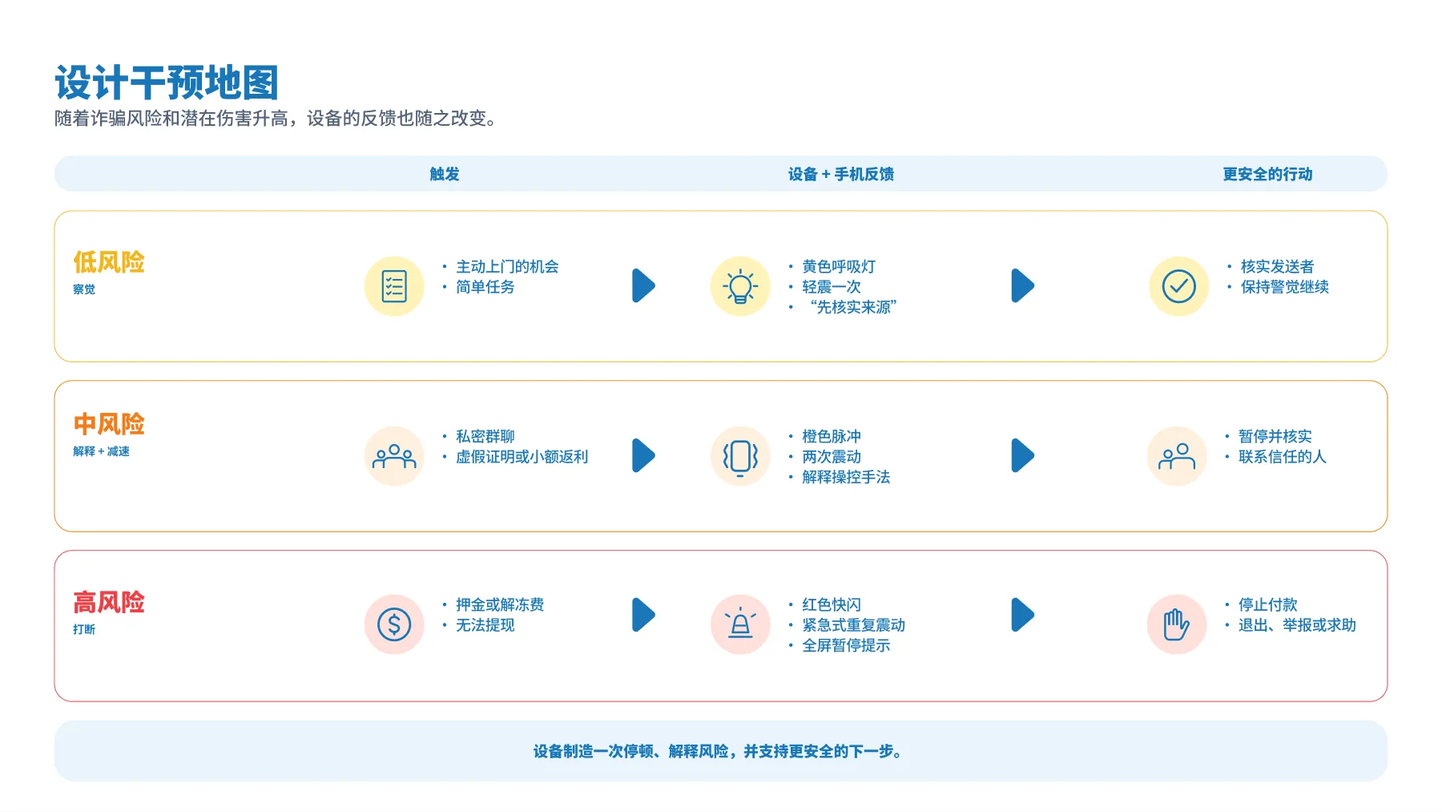
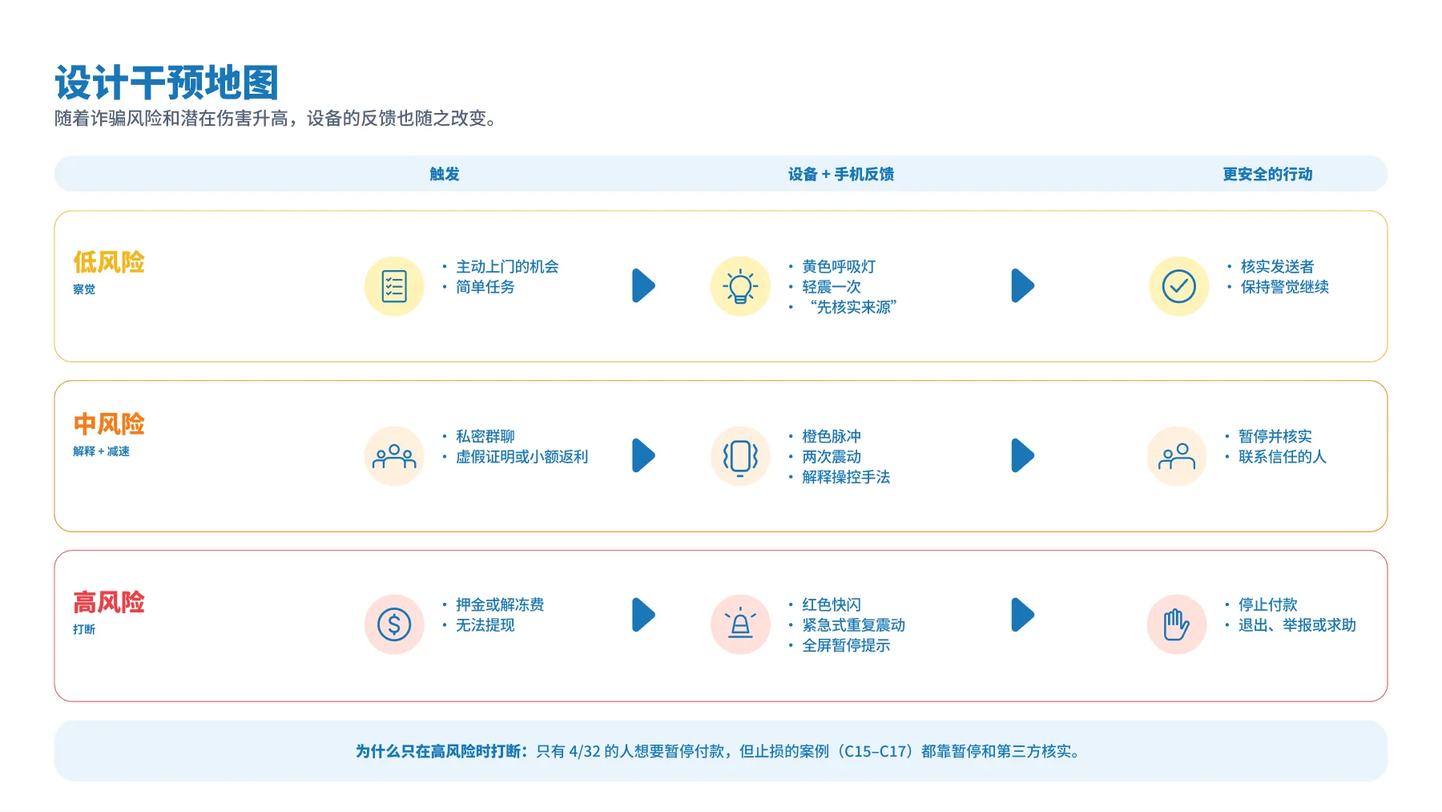
WiseHalo: Intervention Map states why only high risk interrupts (fig 10)

Changed region(s): [[0.2489, 0.9181, 0.7467, 0.9487]]

diff --git a/works/wisehalo.html b/works/wisehalo.html
@@ -33,7 +33,7 @@ try{if(!sessionStorage.getItem('wz-loaded')&&!matchMedia('(prefers-reduced-motio
 <main class="project">
   <section class="meta"><div class="m-row"><span><span class="l-zh" lang="zh-Hans-CN">项目类型</span><span class="l-en" lang="en">Project type</span></span><span class="span2"><span class="l-zh" lang="zh-Hans-CN">AI + IOT 硕士毕业设计项目</span><span class="l-en" lang="en">AI + IoT MA thesis project</span></span></div><div class="m-row"><span><span class="l-zh" lang="zh-Hans-CN">项目名称</span><span class="l-en" lang="en">Project name</span></span><span class="span2"><span class="l-zh" lang="zh-Hans-CN">WiseHalo｜AI 防诈骗风险提示系统</span><span class="l-en" lang="en">WiseHalo — Making Hidden Scam Systems Visible</span></span></div><div class="m-row"><span><span class="l-zh" lang="zh-Hans-CN">分类</span><span class="l-en" lang="en">Category</span></span><span class="span2"><span class="tag">[<span class="l-zh" lang="zh-Hans-CN">AI</span><span class="l-en" lang="en">AI</span>]</span><span class="tag">[<span class="l-zh" lang="zh-Hans-CN">交互设计</span><span class="l-en" lang="en">Interaction design</span>]</span><span class="tag">[<span class="l-zh" lang="zh-Hans-CN">IOT</span><span class="l-en" lang="en">IoT</span>]</span><span class="tag">[<span class="l-zh" lang="zh-Hans-CN">适老化</span><span class="l-en" lang="en">Age-inclusive</span>]</span></span></div><div class="m-row"><span><span class="l-zh" lang="zh-Hans-CN">时间</span><span class="l-en" lang="en">Date</span></span><span class="span2">11.2026</span></div></section>
   <div class="p-grid">
-    <div class="p-main"><figure class="fig"><img src="../images/wisehalo/00-hero.webp?v=1794632484" width="1800" height="1012" alt=""></figure><div class="sec-head"><span>01</span><span><span class="l-zh" lang="zh-Hans-CN">问题：诈骗是一个系统</span><span class="l-en" lang="en">Problem: scams are systems</span></span><span class="sec-text"><span class="l-zh" lang="zh-Hans-CN">公开案例显示，诈骗从社交平台和日常任务开始接触用户，用虚假身份建立信任，再用紧迫感和小额回报推动用户做出高风险操作。大多数人只看到表面信息，看不到背后的运作方式，也就很难在中途停下来。</span><span class="l-en" lang="en">Public cases show scams reach people through everyday channels, build trust with fake identities, then use urgency and small rewards to push risky actions. Most people only see the surface message, not the system behind it — so it is hard to stop midway.</span></span></div><div class="figs figs-stack"><figure class="fig zoom"><img class="l-zh" src="../images/wisehalo/01-zh.webp?v=1794736027" width="1800" height="1013" alt="" loading="lazy" decoding="async"><img class="l-en" src="../images/wisehalo/01.webp?v=1794632484" width="1800" height="1012" alt="" loading="lazy" decoding="async"></figure><figure class="fig zoom"><img class="l-zh" src="../images/wisehalo/02-zh.webp?v=1794736027" width="1800" height="1013" alt="" loading="lazy" decoding="async"><img class="l-en" src="../images/wisehalo/02.webp?v=1794632484" width="1800" height="1012" alt="" loading="lazy" decoding="async"></figure></div><div class="sec-head"><span>02</span><span><span class="l-zh" lang="zh-Hans-CN">研究：20 个公开案例 + 32 份问卷</span><span class="l-en" lang="en">Research: 20 public cases + 32 surveys</span></span><span class="sec-text"><span class="l-zh" lang="zh-Hans-CN">我分析了 20 个中国 50–65 岁受害者的公开案例，并对 32 人做了线上问卷（其中 50 岁以上 15 人）。大多数人在可疑互动中会提前退出，但最需要的不是更多警告，而是“为什么可疑”的具体解释、可以马上执行的下一步，以及对保护工具本身的信任。</span><span class="l-en" lang="en">I analysed 20 public cases of victims aged 50–65 in China and ran an online survey with 32 people (15 aged 50+). Most respondents already exit suspicious interactions early — what they need is not more warnings, but a specific explanation of why something is suspicious, an actionable next step, and trust in the protective tool itself.</span></span></div><div class="figs figs-stack"><figure class="fig zoom"><img class="l-zh" src="../images/wisehalo/03-zh.webp?v=1794736027" width="1800" height="1013" alt="" loading="lazy" decoding="async"><img class="l-en" src="../images/wisehalo/03.webp?v=1794632484" width="1800" height="1012" alt="" loading="lazy" decoding="async"></figure><figure class="fig zoom"><img class="l-zh" src="../images/wisehalo/04-zh.webp?v=1794736027" width="1800" height="1013" alt="" loading="lazy" decoding="async"><img class="l-en" src="../images/wisehalo/04.webp?v=1794632484" width="1800" height="1012" alt="" loading="lazy" decoding="async"></figure><figure class="fig zoom"><img class="l-zh" src="../images/wisehalo/05-zh.webp?v=1794736027" width="1800" height="1013" alt="" loading="lazy" decoding="async"><img class="l-en" src="../images/wisehalo/05.webp?v=1794632485" width="1800" height="1012" alt="" loading="lazy" decoding="async"></figure><figure class="fig zoom"><img class="l-zh" src="../images/wisehalo/06-zh.webp?v=1794736027" width="1800" height="1013" alt="" loading="lazy" decoding="async"><img class="l-en" src="../images/wisehalo/06.webp?v=1794632485" width="1800" height="1012" alt="" loading="lazy" decoding="async"></figure><figure class="fig zoom"><img class="l-zh" src="../images/wisehalo/39-zh.webp?v=1794736027" width="1800" height="1013" alt="" loading="lazy" decoding="async"><img class="l-en" src="../images/wisehalo/39.webp?v=1794732906" width="1800" height="1013" alt="" loading="lazy" decoding="async"></figure><figure class="fig zoom"><img class="l-zh" src="../images/wisehalo/07-zh.webp?v=1794736027" width="1800" height="1013" alt="" loading="lazy" decoding="async"><img class="l-en" src="../images/wisehalo/07.webp?v=1794632485" width="1800" height="1012" alt="" loading="lazy" decoding="async"></figure><figure class="fig zoom"><img class="l-zh" src="../images/wisehalo/40-zh.webp?v=1794736027" width="1800" height="1013" alt="" loading="lazy" decoding="async"><img class="l-en" src="../images/wisehalo/40.webp?v=1794732906" width="1800" height="1013" alt="" loading="lazy" decoding="async"></figure><figure class="fig zoom"><img class="l-zh" src="../images/wisehalo/38-zh.webp?v=1794736027" width="1800" height="1013" alt="User persona: Mei, 58" loading="lazy" decoding="async"><img class="l-en" src="../images/wisehalo/38.webp?v=1794732387" width="1800" height="1013" alt="User persona: Mei, 58" loading="lazy" decoding="async"></figure><figure class="fig zoom"><img class="l-zh" src="../images/wisehalo/08-zh.webp?v=1794736027" width="1800" height="1013" alt="" loading="lazy" decoding="async"><img class="l-en" src="../images/wisehalo/08.webp?v=1794732387" width="1800" height="1013" alt="" loading="lazy" decoding="async"></figure></div><div class="sec-head"><span>03</span><span><span class="l-zh" lang="zh-Hans-CN">策略：风险越高，反馈越强</span><span class="l-en" lang="en">Strategy: stronger risk, stronger response</span></span><span class="sec-text"><span class="l-zh" lang="zh-Hans-CN">设备的反馈随风险逐级升级：低风险用黄色呼吸灯提示“核实来源”；中风险用橙色双脉冲并解释诈骗手法、建议联系信任的人；高风险用红色快闪和重复震动，配合手机全屏提示暂停付款。始终由用户自己决定下一步。</span><span class="l-en" lang="en">Feedback escalates with risk: low risk shows a yellow breathing light and suggests checking the source; medium risk adds an orange double pulse, explains the tactic and suggests contacting someone trusted; high risk uses a fast red flash and repeated vibration with a full-screen prompt to pause the payment. The user always makes the final call.</span></span></div><div class="figs figs-stack"><figure class="fig zoom"><img class="l-zh" src="../images/wisehalo/09-zh.webp?v=1794736027" width="1800" height="1013" alt="" loading="lazy" decoding="async"><img class="l-en" src="../images/wisehalo/09.webp?v=1794732387" width="1800" height="1013" alt="" loading="lazy" decoding="async"></figure><figure class="fig zoom"><img class="l-zh" src="../images/wisehalo/10-zh.webp?v=1794736027" width="1800" height="1013" alt="" loading="lazy" decoding="async"><img class="l-en" src="../images/wisehalo/10.webp?v=1794732906" width="1800" height="1013" alt="" loading="lazy" decoding="async"></figure><figure class="fig zoom"><img class="l-zh" src="../images/wisehalo/11-zh.webp?v=1794736027" width="1800" height="1013" alt="" loading="lazy" decoding="async"><img class="l-en" src="../images/wisehalo/11.webp?v=1794632486" width="1800" height="1012" alt="" loading="lazy" decoding="async"></figure></div><div class="sec-head"><span>04</span><span><span class="l-zh" lang="zh-Hans-CN">系统与信息架构</span><span class="l-en" lang="en">System &amp; information architecture</span></span><span class="sec-text"><span class="l-zh" lang="zh-Hans-CN">手机端负责接收可疑内容、调用 AI 分析并解释风险；设备端把风险等级转化为灯光与震动。信息架构围绕“检查 → 理解 → 选择安全行动”三步组织。</span><span class="l-en" lang="en">The phone receives suspicious content, calls the AI analysis and explains the risk; the device translates the risk level into light and vibration. The information architecture follows three steps: check → understand → choose a safe action.</span></span></div><div class="figs figs-stack"><figure class="fig zoom"><img class="l-zh" src="../images/wisehalo/14-zh.webp?v=1794736027" width="1800" height="1013" alt="" loading="lazy" decoding="async"><img class="l-en" src="../images/wisehalo/14.webp?v=1794732387" width="1800" height="1013" alt="" loading="lazy" decoding="async"></figure><figure class="fig zoom"><img class="l-zh" src="../images/wisehalo/15-zh.webp?v=1794784326" width="1800" height="1013" alt="" loading="lazy" decoding="async"><img class="l-en" src="../images/wisehalo/15.webp?v=1794784326" width="1800" height="1013" alt="" loading="lazy" decoding="async"></figure><figure class="fig zoom"><img class="l-zh" src="../images/wisehalo/16-zh.webp?v=1794784326" width="1800" height="1013" alt="" loading="lazy" decoding="async"><img class="l-en" src="../images/wisehalo/16.webp?v=1794784326" width="1800" height="1013" alt="" loading="lazy" decoding="async"></figure></div><div class="sec-head"><span>05</span><span><span class="l-zh" lang="zh-Hans-CN">界面：从中保真到高保真</span><span class="l-en" lang="en">Interface: from mid-fi to hi-fi</span></span><span class="sec-text"><span class="l-zh" lang="zh-Hans-CN">高保真把首页做成一个由 App 图标生成的“光环开关”：打开是提醒器守护中，关掉是只用手机提醒。主题色取自图标的藏青与蓝青，鲜艳的颜色只留给光环和风险等级；结果页按“风险等级 → 一句话指令 → 一个主按钮 → 为什么可疑 → 求助”排列，并提供深色模式。下方按设计推进的顺序排列：低保真 → 中保真 → App 图标 → 设计规范（色彩、风险等级、字号与图标、组件、光环开关与结果页）→ 全部高保真界面与深色模式 → 引导页 → v2 新增功能（手机与提醒器分工、闸门熄灯、通话快速自查、链接与电话检查、屏幕共享警告等）。</span><span class="l-en" lang="en">The hi-fi turns Home into a “halo switch” drawn from the app icon: on means the reminder is guarding, off means phone-only alerts. Colours come from the icon’s navy and blue-cyan, with bright colour reserved for the halo and risk levels. Results follow risk level → one instruction → one primary action → why it’s suspicious → get help, with a dark mode. Below, in the order the design developed: low-fi → mid-fi → app icon → design system (colour, risk levels, type &amp; icons, components, halo switch &amp; result order) → every hi-fi screen plus dark mode → onboarding → v2 additions (phone vs reminder roles, the release gate, call self-check, link &amp; number checks, screen-sharing warnings and more).</span></span></div><div class="figs figs-stack"><figure class="fig zoom"><img class="l-zh" src="../images/wisehalo/17-zh.webp?v=1794736027" width="1800" height="1013" alt="" loading="lazy" decoding="async"><img class="l-en" src="../images/wisehalo/17.webp?v=1794634616" width="1800" height="1012" alt="" loading="lazy" decoding="async"></figure><figure class="fig zoom"><img class="l-zh" src="../images/wisehalo/18-zh.webp?v=1794736027" width="1800" height="1013" alt="" loading="lazy" decoding="async"><img class="l-en" src="../images/wisehalo/18.webp?v=1794634616" width="1800" height="1012" alt="" loading="lazy" decoding="async"></figure><figure class="fig zoom"><img class="l-zh" src="../images/wisehalo/19-zh.webp?v=1794736027" width="1800" height="1013" alt="" loading="lazy" decoding="async"><img class="l-en" src="../images/wisehalo/19.webp?v=1794634617" width="1800" height="1012" alt="" loading="lazy" decoding="async"></figure><figure class="fig zoom"><img class="l-zh" src="../images/wisehalo/20.webp?v=1794819768" width="1800" height="1013" alt="" loading="lazy" decoding="async"><img class="l-en" src="../images/wisehalo/21.webp?v=1794819768" width="1800" height="1013" alt="" loading="lazy" decoding="async"></figure><figure class="fig zoom"><img class="l-zh" src="../images/wisehalo/22.webp?v=1794819768" width="1800" height="1013" alt="" loading="lazy" decoding="async"><img class="l-en" src="../images/wisehalo/23.webp?v=1794819768" width="1800" height="1013" alt="" loading="lazy" decoding="async"></figure><figure class="fig zoom"><img class="l-zh" src="../images/wisehalo/24.webp?v=1794819768" width="1800" height="1013" alt="" loading="lazy" decoding="async"><img class="l-en" src="../images/wisehalo/25.webp?v=1794819768" width="1800" height="1013" alt="" loading="lazy" decoding="async"></figure><figure class="fig zoom"><img class="l-zh" src="../images/wisehalo/26.webp?v=1794819768" width="1800" height="1013" alt="" loading="lazy" decoding="async"><img class="l-en" src="../images/wisehalo/27.webp?v=1794819768" width="1800" height="1013" alt="" loading="lazy" decoding="async"></figure><figure class="fig zoom"><img class="l-zh" src="../images/wisehalo/28.webp?v=1794819768" width="1800" height="1013" alt="" loading="lazy" decoding="async"><img class="l-en" src="../images/wisehalo/29.webp?v=1794819768" width="1800" height="1013" alt="" loading="lazy" decoding="async"></figure><figure class="fig zoom"><img class="l-zh" src="../images/wisehalo/30.webp?v=1794820316" width="1800" height="5211" alt="" loading="lazy" decoding="async"><img class="l-en" src="../images/wisehalo/31.webp?v=1794820316" width="1800" height="5385" alt="" loading="lazy" decoding="async"></figure><figure class="fig zoom"><img class="l-zh" src="../images/wisehalo/42-zh.webp?v=1794819768" width="1800" height="1104" alt="" loading="lazy" decoding="async"><img class="l-en" src="../images/wisehalo/42.webp?v=1794819768" width="1800" height="1104" alt="" loading="lazy" decoding="async"></figure><figure class="fig zoom"><img class="l-zh" src="../images/wisehalo/43-zh.webp?v=1794819768" width="1800" height="6053" alt="" loading="lazy" decoding="async"><img class="l-en" src="../images/wisehalo/43.webp?v=1794819768" width="1800" height="6074" alt="" loading="lazy" decoding="async"></figure></div><div class="sec-head"><span>06</span><span><span class="l-zh" lang="zh-Hans-CN">可交互原型：试一试</span><span class="l-en" lang="en">Interactive prototype: try it</span></span><span class="sec-text"><span class="l-zh" lang="zh-Hans-CN">打开后先走一遍 4 步引导页（欢迎、选择语言、隐私承诺、连接提醒器，可在设置中重新查看），之后就是远程可用性测试使用的原型：点“粘贴”或选一条示例，再点“开始检查”，可以看到风险结果、先暂停 1 分钟、三步核实、发给家人，以及不用打字的“通话快速自查”。首页的光环可以在“只用手机提醒”和“手机 + 提醒器”之间切换——这正是测试中对比的两组。原型用固定规则代替 AI，提醒器状态为模拟。</span><span class="l-en" lang="en">It opens with the 4-step onboarding (welcome, language, privacy promise, connect the reminder — replay it from Settings), then the prototype used for remote usability testing: tap Paste or pick an example, then Check, to see the risk result, the 1-minute pause, three-step verification, sending it to family, and the no-typing call self-check. The halo on Home switches between phone-only alerts and phone + reminder — the two conditions compared in testing. The prototype uses fixed rules instead of AI, and the reminder is simulated.</span></span></div><div class="figs figs-stack"><figure class="fig embed phone stage st-halo"><div class="stage-bg" aria-hidden="true"><svg class="stage-halo" viewBox="0 0 236 236" preserveAspectRatio="xMidYMid meet"><defs><linearGradient id="st-halo-g" x1="0" x2="1"><stop offset="0" stop-color="#1450FF"/><stop offset=".55" stop-color="#1A8BFF"/><stop offset="1" stop-color="#12DCF6"/></linearGradient><filter id="st-halo-blur" x="-30%" y="-30%" width="160%" height="160%"><feGaussianBlur stdDeviation="9"/></filter></defs><path class="glow" d="M56.3 191.5A96 96 0 1 1 179.7 191.5"/><path class="echo" d="M38.3 213.0A124 124 0 1 1 197.7 213.0"/><path class="echo e2" d="M21.6 232.9A150 150 0 1 1 214.4 232.9"/><path class="ring" d="M56.3 191.5A96 96 0 1 1 179.7 191.5"/><circle class="led low" cx="34.9" cy="70" r="2.6"/><circle class="led mid" cx="118" cy="22" r="2.6"/><circle class="led high" cx="201.1" cy="70" r="2.6"/></svg><div class="stage-label"><b><span class="l-zh" lang="zh-Hans-CN">可试玩 · 安心护</span><span class="l-en" lang="en">Live demo · WiseHalo</span></b><span><span class="l-zh" lang="zh-Hans-CN">演示模式 · 固定规则代替 AI</span><span class="l-en" lang="en">Demo mode · fixed rules instead of AI</span></span></div><div class="stage-co stage-co1"><span class="n">01</span><b><span class="l-zh" lang="zh-Hans-CN">粘贴 → 检查</span><span class="l-en" lang="en">Paste → Check</span></b><span class="d"><span class="l-zh" lang="zh-Hans-CN">选一条示例，看风险结果</span><span class="l-en" lang="en">Pick an example, see the risk</span></span><i></i></div><div class="stage-co stage-co2"><span class="n">02</span><b><span class="l-zh" lang="zh-Hans-CN">先停一下</span><span class="l-en" lang="en">Pause first</span></b><span class="d"><span class="l-zh" lang="zh-Hans-CN">高风险时暂停 1 分钟，再核实</span><span class="l-en" lang="en">High risk: a 1-minute pause, then verify</span></span><i></i></div><div class="stage-co stage-co3"><span class="n">03</span><b><span class="l-zh" lang="zh-Hans-CN">光环开关</span><span class="l-en" lang="en">Halo switch</span></b><span class="d"><span class="l-zh" lang="zh-Hans-CN">只用手机 ↔ 手机 + 提醒器</span><span class="l-en" lang="en">Phone only ↔ phone + reminder</span></span><i></i></div><div class="stage-co stage-co4"><span class="n">04</span><b><span class="l-zh" lang="zh-Hans-CN">通话快速自查</span><span class="l-en" lang="en">Call self-check</span></b><span class="d"><span class="l-zh" lang="zh-Hans-CN">不用打字，回答 5 个问题</span><span class="l-en" lang="en">No typing, five questions</span></span><i></i></div></div><iframe data-lang-src="../wisehalo-test/?demo=1&amp;frame=1&amp;ob=5&amp;lang={lang}&amp;theme={theme}" title="WiseHalo interactive prototype" loading="lazy" allow="microphone; camera; autoplay; clipboard-write"></iframe><figcaption><a class="u" href="../wisehalo-test/?demo=1&amp;ob=5" target="_blank" rel="noopener"><span class="l-zh" lang="zh-Hans-CN">在新窗口打开，或用手机打开 ↗</span><span class="l-en" lang="en">Open in a new tab or on your phone ↗</span></a></figcaption></figure></div><div class="sec-head"><span>07</span><span><span class="l-zh" lang="zh-Hans-CN">硬件原型：灯光与震动语言</span><span class="l-en" lang="en">Hardware: a language of light and vibration</span></span><span class="sec-text"><span class="l-zh" lang="zh-Hans-CN">用 ESP32-C3、RGB 灯环和震动马达搭建原型：先在 Wokwi 中仿真三种风险等级的反馈逻辑，再在面包板上逐项测试灯光和震动，最后让 App 的 AI 分析结果驱动设备反馈。</span><span class="l-en" lang="en">Built with an ESP32-C3, an RGB LED ring and a vibration motor: the feedback logic for three risk levels was first simulated in Wokwi, then tested on a breadboard, and finally driven by the app&#x27;s AI analysis result.</span></span></div><div class="figs figs-stack"><figure class="fig zoom"><img class="l-zh" src="../images/wisehalo/41-zh.webp?v=1794780180" width="1800" height="1013" alt="" loading="lazy" decoding="async"><img class="l-en" src="../images/wisehalo/41.webp?v=1794780180" width="1800" height="1013" alt="" loading="lazy" decoding="async"></figure><figure class="fig zoom"><img class="l-zh" src="../images/wisehalo/32-zh.webp?v=1794736027" width="1800" height="1013" alt="" loading="lazy" decoding="async"><img class="l-en" src="../images/wisehalo/32.webp?v=1794634622" width="1800" height="1012" alt="" loading="lazy" decoding="async"></figure><figure class="fig zoom"><img class="l-zh" src="../images/wisehalo/33-zh.webp?v=1794736027" width="1800" height="1013" alt="" loading="lazy" decoding="async"><img class="l-en" src="../images/wisehalo/33.webp?v=1794634622" width="1800" height="1012" alt="" loading="lazy" decoding="async"></figure><figure class="fig zoom"><img class="l-zh" src="../images/wisehalo/34-zh.webp?v=1794736027" width="1800" height="1013" alt="" loading="lazy" decoding="async"><img class="l-en" src="../images/wisehalo/34.webp?v=1794732387" width="1800" height="1013" alt="" loading="lazy" decoding="async"></figure><figure class="fig zoom"><img class="l-zh" src="../images/wisehalo/35-zh.webp?v=1794736027" width="1800" height="1013" alt="" loading="lazy" decoding="async"><img class="l-en" src="../images/wisehalo/35.webp?v=1794634622" width="1800" height="1012" alt="" loading="lazy" decoding="async"></figure><figure class="fig zoom"><img class="l-zh" src="../images/wisehalo/36-zh.webp?v=1794736027" width="1800" height="1013" alt="" loading="lazy" decoding="async"><img class="l-en" src="../images/wisehalo/36.webp?v=1794634623" width="1800" height="1012" alt="" loading="lazy" decoding="async"></figure><figure class="fig zoom"><img class="l-zh" src="../images/wisehalo/37-zh.webp?v=1794736027" width="1800" height="1013" alt="" loading="lazy" decoding="async"><img class="l-en" src="../images/wisehalo/37.webp?v=1794733097" width="1800" height="1013" alt="" loading="lazy" decoding="async"></figure></div><div class="sec-head"><span>08</span><span><span class="l-zh" lang="zh-Hans-CN">现状与下一步</span><span class="l-en" lang="en">Status &amp; next steps</span></span><span class="sec-text"><span class="l-zh" lang="zh-Hans-CN">目前已实现：高保真 iOS App（SwiftUI）——提交文字或截图 → AI 分析 → 风险等级、解释与建议 → 提醒器灯光与震动；手机负责“提醒一次”，桌上的提醒器“一直提醒，直到您暂停或核实”。另有通话快速自查、读给我听、屏幕共享警告和 App 内字号。下一步：对 5 位 50 岁以上长辈做远程可用性测试（含“只有手机 / 手机 + 提醒器”对比）和专家评估。</span><span class="l-en" lang="en">Working today: a hi-fi iOS app (SwiftUI) — submit text or a screenshot → AI analysis → risk level, explanation and advice → light and vibration on the reminder. The phone alerts once; the desk reminder keeps alerting until you pause or verify. Also: a call self-check, read-aloud, a screen-sharing warning and in-app text size. Next: remote usability testing with five adults aged 50+ (including phone-only vs phone + reminder) and an expert evaluation.</span></span></div></div>
+    <div class="p-main"><figure class="fig"><img src="../images/wisehalo/00-hero.webp?v=1794632484" width="1800" height="1012" alt=""></figure><div class="sec-head"><span>01</span><span><span class="l-zh" lang="zh-Hans-CN">问题：诈骗是一个系统</span><span class="l-en" lang="en">Problem: scams are systems</span></span><span class="sec-text"><span class="l-zh" lang="zh-Hans-CN">公开案例显示，诈骗从社交平台和日常任务开始接触用户，用虚假身份建立信任，再用紧迫感和小额回报推动用户做出高风险操作。大多数人只看到表面信息，看不到背后的运作方式，也就很难在中途停下来。</span><span class="l-en" lang="en">Public cases show scams reach people through everyday channels, build trust with fake identities, then use urgency and small rewards to push risky actions. Most people only see the surface message, not the system behind it — so it is hard to stop midway.</span></span></div><div class="figs figs-stack"><figure class="fig zoom"><img class="l-zh" src="../images/wisehalo/01-zh.webp?v=1794736027" width="1800" height="1013" alt="" loading="lazy" decoding="async"><img class="l-en" src="../images/wisehalo/01.webp?v=1794632484" width="1800" height="1012" alt="" loading="lazy" decoding="async"></figure><figure class="fig zoom"><img class="l-zh" src="../images/wisehalo/02-zh.webp?v=1794736027" width="1800" height="1013" alt="" loading="lazy" decoding="async"><img class="l-en" src="../images/wisehalo/02.webp?v=1794632484" width="1800" height="1012" alt="" loading="lazy" decoding="async"></figure></div><div class="sec-head"><span>02</span><span><span class="l-zh" lang="zh-Hans-CN">研究：20 个公开案例 + 32 份问卷</span><span class="l-en" lang="en">Research: 20 public cases + 32 surveys</span></span><span class="sec-text"><span class="l-zh" lang="zh-Hans-CN">我分析了 20 个中国 50–65 岁受害者的公开案例，并对 32 人做了线上问卷（其中 50 岁以上 15 人）。大多数人在可疑互动中会提前退出，但最需要的不是更多警告，而是“为什么可疑”的具体解释、可以马上执行的下一步，以及对保护工具本身的信任。</span><span class="l-en" lang="en">I analysed 20 public cases of victims aged 50–65 in China and ran an online survey with 32 people (15 aged 50+). Most respondents already exit suspicious interactions early — what they need is not more warnings, but a specific explanation of why something is suspicious, an actionable next step, and trust in the protective tool itself.</span></span></div><div class="figs figs-stack"><figure class="fig zoom"><img class="l-zh" src="../images/wisehalo/03-zh.webp?v=1794736027" width="1800" height="1013" alt="" loading="lazy" decoding="async"><img class="l-en" src="../images/wisehalo/03.webp?v=1794632484" width="1800" height="1012" alt="" loading="lazy" decoding="async"></figure><figure class="fig zoom"><img class="l-zh" src="../images/wisehalo/04-zh.webp?v=1794736027" width="1800" height="1013" alt="" loading="lazy" decoding="async"><img class="l-en" src="../images/wisehalo/04.webp?v=1794632484" width="1800" height="1012" alt="" loading="lazy" decoding="async"></figure><figure class="fig zoom"><img class="l-zh" src="../images/wisehalo/05-zh.webp?v=1794736027" width="1800" height="1013" alt="" loading="lazy" decoding="async"><img class="l-en" src="../images/wisehalo/05.webp?v=1794632485" width="1800" height="1012" alt="" loading="lazy" decoding="async"></figure><figure class="fig zoom"><img class="l-zh" src="../images/wisehalo/06-zh.webp?v=1794736027" width="1800" height="1013" alt="" loading="lazy" decoding="async"><img class="l-en" src="../images/wisehalo/06.webp?v=1794632485" width="1800" height="1012" alt="" loading="lazy" decoding="async"></figure><figure class="fig zoom"><img class="l-zh" src="../images/wisehalo/39-zh.webp?v=1794736027" width="1800" height="1013" alt="" loading="lazy" decoding="async"><img class="l-en" src="../images/wisehalo/39.webp?v=1794732906" width="1800" height="1013" alt="" loading="lazy" decoding="async"></figure><figure class="fig zoom"><img class="l-zh" src="../images/wisehalo/07-zh.webp?v=1794736027" width="1800" height="1013" alt="" loading="lazy" decoding="async"><img class="l-en" src="../images/wisehalo/07.webp?v=1794632485" width="1800" height="1012" alt="" loading="lazy" decoding="async"></figure><figure class="fig zoom"><img class="l-zh" src="../images/wisehalo/40-zh.webp?v=1794736027" width="1800" height="1013" alt="" loading="lazy" decoding="async"><img class="l-en" src="../images/wisehalo/40.webp?v=1794732906" width="1800" height="1013" alt="" loading="lazy" decoding="async"></figure><figure class="fig zoom"><img class="l-zh" src="../images/wisehalo/38-zh.webp?v=1794736027" width="1800" height="1013" alt="User persona: Mei, 58" loading="lazy" decoding="async"><img class="l-en" src="../images/wisehalo/38.webp?v=1794732387" width="1800" height="1013" alt="User persona: Mei, 58" loading="lazy" decoding="async"></figure><figure class="fig zoom"><img class="l-zh" src="../images/wisehalo/08-zh.webp?v=1794736027" width="1800" height="1013" alt="" loading="lazy" decoding="async"><img class="l-en" src="../images/wisehalo/08.webp?v=1794732387" width="1800" height="1013" alt="" loading="lazy" decoding="async"></figure></div><div class="sec-head"><span>03</span><span><span class="l-zh" lang="zh-Hans-CN">策略：风险越高，反馈越强</span><span class="l-en" lang="en">Strategy: stronger risk, stronger response</span></span><span class="sec-text"><span class="l-zh" lang="zh-Hans-CN">设备的反馈随风险逐级升级：低风险用黄色呼吸灯提示“核实来源”；中风险用橙色双脉冲并解释诈骗手法、建议联系信任的人；高风险用红色快闪和重复震动，配合手机全屏提示暂停付款。始终由用户自己决定下一步。</span><span class="l-en" lang="en">Feedback escalates with risk: low risk shows a yellow breathing light and suggests checking the source; medium risk adds an orange double pulse, explains the tactic and suggests contacting someone trusted; high risk uses a fast red flash and repeated vibration with a full-screen prompt to pause the payment. The user always makes the final call.</span></span></div><div class="figs figs-stack"><figure class="fig zoom"><img class="l-zh" src="../images/wisehalo/09-zh.webp?v=1794736027" width="1800" height="1013" alt="" loading="lazy" decoding="async"><img class="l-en" src="../images/wisehalo/09.webp?v=1794732387" width="1800" height="1013" alt="" loading="lazy" decoding="async"></figure><figure class="fig zoom"><img class="l-zh" src="../images/wisehalo/10-zh.webp?v=1794821514" width="1800" height="1013" alt="" loading="lazy" decoding="async"><img class="l-en" src="../images/wisehalo/10.webp?v=1794821514" width="1800" height="1013" alt="" loading="lazy" decoding="async"></figure><figure class="fig zoom"><img class="l-zh" src="../images/wisehalo/11-zh.webp?v=1794736027" width="1800" height="1013" alt="" loading="lazy" decoding="async"><img class="l-en" src="../images/wisehalo/11.webp?v=1794632486" width="1800" height="1012" alt="" loading="lazy" decoding="async"></figure></div><div class="sec-head"><span>04</span><span><span class="l-zh" lang="zh-Hans-CN">系统与信息架构</span><span class="l-en" lang="en">System &amp; information architecture</span></span><span class="sec-text"><span class="l-zh" lang="zh-Hans-CN">手机端负责接收可疑内容、调用 AI 分析并解释风险；设备端把风险等级转化为灯光与震动。信息架构围绕“检查 → 理解 → 选择安全行动”三步组织。</span><span class="l-en" lang="en">The phone receives suspicious content, calls the AI analysis and explains the risk; the device translates the risk level into light and vibration. The information architecture follows three steps: check → understand → choose a safe action.</span></span></div><div class="figs figs-stack"><figure class="fig zoom"><img class="l-zh" src="../images/wisehalo/14-zh.webp?v=1794736027" width="1800" height="1013" alt="" loading="lazy" decoding="async"><img class="l-en" src="../images/wisehalo/14.webp?v=1794732387" width="1800" height="1013" alt="" loading="lazy" decoding="async"></figure><figure class="fig zoom"><img class="l-zh" src="../images/wisehalo/15-zh.webp?v=1794784326" width="1800" height="1013" alt="" loading="lazy" decoding="async"><img class="l-en" src="../images/wisehalo/15.webp?v=1794784326" width="1800" height="1013" alt="" loading="lazy" decoding="async"></figure><figure class="fig zoom"><img class="l-zh" src="../images/wisehalo/16-zh.webp?v=1794784326" width="1800" height="1013" alt="" loading="lazy" decoding="async"><img class="l-en" src="../images/wisehalo/16.webp?v=1794784326" width="1800" height="1013" alt="" loading="lazy" decoding="async"></figure></div><div class="sec-head"><span>05</span><span><span class="l-zh" lang="zh-Hans-CN">界面：从中保真到高保真</span><span class="l-en" lang="en">Interface: from mid-fi to hi-fi</span></span><span class="sec-text"><span class="l-zh" lang="zh-Hans-CN">高保真把首页做成一个由 App 图标生成的“光环开关”：打开是提醒器守护中，关掉是只用手机提醒。主题色取自图标的藏青与蓝青，鲜艳的颜色只留给光环和风险等级；结果页按“风险等级 → 一句话指令 → 一个主按钮 → 为什么可疑 → 求助”排列，并提供深色模式。下方按设计推进的顺序排列：低保真 → 中保真 → App 图标 → 设计规范（色彩、风险等级、字号与图标、组件、光环开关与结果页）→ 全部高保真界面与深色模式 → 引导页 → v2 新增功能（手机与提醒器分工、闸门熄灯、通话快速自查、链接与电话检查、屏幕共享警告等）。</span><span class="l-en" lang="en">The hi-fi turns Home into a “halo switch” drawn from the app icon: on means the reminder is guarding, off means phone-only alerts. Colours come from the icon’s navy and blue-cyan, with bright colour reserved for the halo and risk levels. Results follow risk level → one instruction → one primary action → why it’s suspicious → get help, with a dark mode. Below, in the order the design developed: low-fi → mid-fi → app icon → design system (colour, risk levels, type &amp; icons, components, halo switch &amp; result order) → every hi-fi screen plus dark mode → onboarding → v2 additions (phone vs reminder roles, the release gate, call self-check, link &amp; number checks, screen-sharing warnings and more).</span></span></div><div class="figs figs-stack"><figure class="fig zoom"><img class="l-zh" src="../images/wisehalo/17-zh.webp?v=1794736027" width="1800" height="1013" alt="" loading="lazy" decoding="async"><img class="l-en" src="../images/wisehalo/17.webp?v=1794634616" width="1800" height="1012" alt="" loading="lazy" decoding="async"></figure><figure class="fig zoom"><img class="l-zh" src="../images/wisehalo/18-zh.webp?v=1794736027" width="1800" height="1013" alt="" loading="lazy" decoding="async"><img class="l-en" src="../images/wisehalo/18.webp?v=1794634616" width="1800" height="1012" alt="" loading="lazy" decoding="async"></figure><figure class="fig zoom"><img class="l-zh" src="../images/wisehalo/19-zh.webp?v=1794736027" width="1800" height="1013" alt="" loading="lazy" decoding="async"><img class="l-en" src="../images/wisehalo/19.webp?v=1794634617" width="1800" height="1012" alt="" loading="lazy" decoding="async"></figure><figure class="fig zoom"><img class="l-zh" src="../images/wisehalo/20.webp?v=1794819768" width="1800" height="1013" alt="" loading="lazy" decoding="async"><img class="l-en" src="../images/wisehalo/21.webp?v=1794819768" width="1800" height="1013" alt="" loading="lazy" decoding="async"></figure><figure class="fig zoom"><img class="l-zh" src="../images/wisehalo/22.webp?v=1794819768" width="1800" height="1013" alt="" loading="lazy" decoding="async"><img class="l-en" src="../images/wisehalo/23.webp?v=1794819768" width="1800" height="1013" alt="" loading="lazy" decoding="async"></figure><figure class="fig zoom"><img class="l-zh" src="../images/wisehalo/24.webp?v=1794819768" width="1800" height="1013" alt="" loading="lazy" decoding="async"><img class="l-en" src="../images/wisehalo/25.webp?v=1794819768" width="1800" height="1013" alt="" loading="lazy" decoding="async"></figure><figure class="fig zoom"><img class="l-zh" src="../images/wisehalo/26.webp?v=1794819768" width="1800" height="1013" alt="" loading="lazy" decoding="async"><img class="l-en" src="../images/wisehalo/27.webp?v=1794819768" width="1800" height="1013" alt="" loading="lazy" decoding="async"></figure><figure class="fig zoom"><img class="l-zh" src="../images/wisehalo/28.webp?v=1794819768" width="1800" height="1013" alt="" loading="lazy" decoding="async"><img class="l-en" src="../images/wisehalo/29.webp?v=1794819768" width="1800" height="1013" alt="" loading="lazy" decoding="async"></figure><figure class="fig zoom"><img class="l-zh" src="../images/wisehalo/30.webp?v=1794820316" width="1800" height="5211" alt="" loading="lazy" decoding="async"><img class="l-en" src="../images/wisehalo/31.webp?v=1794820316" width="1800" height="5385" alt="" loading="lazy" decoding="async"></figure><figure class="fig zoom"><img class="l-zh" src="../images/wisehalo/42-zh.webp?v=1794819768" width="1800" height="1104" alt="" loading="lazy" decoding="async"><img class="l-en" src="../images/wisehalo/42.webp?v=1794819768" width="1800" height="1104" alt="" loading="lazy" decoding="async"></figure><figure class="fig zoom"><img class="l-zh" src="../images/wisehalo/43-zh.webp?v=1794819768" width="1800" height="6053" alt="" loading="lazy" decoding="async"><img class="l-en" src="../images/wisehalo/43.webp?v=1794819768" width="1800" height="6074" alt="" loading="lazy" decoding="async"></figure></div><div class="sec-head"><span>06</span><span><span class="l-zh" lang="zh-Hans-CN">可交互原型：试一试</span><span class="l-en" lang="en">Interactive prototype: try it</span></span><span class="sec-text"><span class="l-zh" lang="zh-Hans-CN">打开后先走一遍 4 步引导页（欢迎、选择语言、隐私承诺、连接提醒器，可在设置中重新查看），之后就是远程可用性测试使用的原型：点“粘贴”或选一条示例，再点“开始检查”，可以看到风险结果、先暂停 1 分钟、三步核实、发给家人，以及不用打字的“通话快速自查”。首页的光环可以在“只用手机提醒”和“手机 + 提醒器”之间切换——这正是测试中对比的两组。原型用固定规则代替 AI，提醒器状态为模拟。</span><span class="l-en" lang="en">It opens with the 4-step onboarding (welcome, language, privacy promise, connect the reminder — replay it from Settings), then the prototype used for remote usability testing: tap Paste or pick an example, then Check, to see the risk result, the 1-minute pause, three-step verification, sending it to family, and the no-typing call self-check. The halo on Home switches between phone-only alerts and phone + reminder — the two conditions compared in testing. The prototype uses fixed rules instead of AI, and the reminder is simulated.</span></span></div><div class="figs figs-stack"><figure class="fig embed phone stage st-halo"><div class="stage-bg" aria-hidden="true"><svg class="stage-halo" viewBox="0 0 236 236" preserveAspectRatio="xMidYMid meet"><defs><linearGradient id="st-halo-g" x1="0" x2="1"><stop offset="0" stop-color="#1450FF"/><stop offset=".55" stop-color="#1A8BFF"/><stop offset="1" stop-color="#12DCF6"/></linearGradient><filter id="st-halo-blur" x="-30%" y="-30%" width="160%" height="160%"><feGaussianBlur stdDeviation="9"/></filter></defs><path class="glow" d="M56.3 191.5A96 96 0 1 1 179.7 191.5"/><path class="echo" d="M38.3 213.0A124 124 0 1 1 197.7 213.0"/><path class="echo e2" d="M21.6 232.9A150 150 0 1 1 214.4 232.9"/><path class="ring" d="M56.3 191.5A96 96 0 1 1 179.7 191.5"/><circle class="led low" cx="34.9" cy="70" r="2.6"/><circle class="led mid" cx="118" cy="22" r="2.6"/><circle class="led high" cx="201.1" cy="70" r="2.6"/></svg><div class="stage-label"><b><span class="l-zh" lang="zh-Hans-CN">可试玩 · 安心护</span><span class="l-en" lang="en">Live demo · WiseHalo</span></b><span><span class="l-zh" lang="zh-Hans-CN">演示模式 · 固定规则代替 AI</span><span class="l-en" lang="en">Demo mode · fixed rules instead of AI</span></span></div><div class="stage-co stage-co1"><span class="n">01</span><b><span class="l-zh" lang="zh-Hans-CN">粘贴 → 检查</span><span class="l-en" lang="en">Paste → Check</span></b><span class="d"><span class="l-zh" lang="zh-Hans-CN">选一条示例，看风险结果</span><span class="l-en" lang="en">Pick an example, see the risk</span></span><i></i></div><div class="stage-co stage-co2"><span class="n">02</span><b><span class="l-zh" lang="zh-Hans-CN">先停一下</span><span class="l-en" lang="en">Pause first</span></b><span class="d"><span class="l-zh" lang="zh-Hans-CN">高风险时暂停 1 分钟，再核实</span><span class="l-en" lang="en">High risk: a 1-minute pause, then verify</span></span><i></i></div><div class="stage-co stage-co3"><span class="n">03</span><b><span class="l-zh" lang="zh-Hans-CN">光环开关</span><span class="l-en" lang="en">Halo switch</span></b><span class="d"><span class="l-zh" lang="zh-Hans-CN">只用手机 ↔ 手机 + 提醒器</span><span class="l-en" lang="en">Phone only ↔ phone + reminder</span></span><i></i></div><div class="stage-co stage-co4"><span class="n">04</span><b><span class="l-zh" lang="zh-Hans-CN">通话快速自查</span><span class="l-en" lang="en">Call self-check</span></b><span class="d"><span class="l-zh" lang="zh-Hans-CN">不用打字，回答 5 个问题</span><span class="l-en" lang="en">No typing, five questions</span></span><i></i></div></div><iframe data-lang-src="../wisehalo-test/?demo=1&amp;frame=1&amp;ob=5&amp;lang={lang}&amp;theme={theme}" title="WiseHalo interactive prototype" loading="lazy" allow="microphone; camera; autoplay; clipboard-write"></iframe><figcaption><a class="u" href="../wisehalo-test/?demo=1&amp;ob=5" target="_blank" rel="noopener"><span class="l-zh" lang="zh-Hans-CN">在新窗口打开，或用手机打开 ↗</span><span class="l-en" lang="en">Open in a new tab or on your phone ↗</span></a></figcaption></figure></div><div class="sec-head"><span>07</span><span><span class="l-zh" lang="zh-Hans-CN">硬件原型：灯光与震动语言</span><span class="l-en" lang="en">Hardware: a language of light and vibration</span></span><span class="sec-text"><span class="l-zh" lang="zh-Hans-CN">用 ESP32-C3、RGB 灯环和震动马达搭建原型：先在 Wokwi 中仿真三种风险等级的反馈逻辑，再在面包板上逐项测试灯光和震动，最后让 App 的 AI 分析结果驱动设备反馈。</span><span class="l-en" lang="en">Built with an ESP32-C3, an RGB LED ring and a vibration motor: the feedback logic for three risk levels was first simulated in Wokwi, then tested on a breadboard, and finally driven by the app&#x27;s AI analysis result.</span></span></div><div class="figs figs-stack"><figure class="fig zoom"><img class="l-zh" src="../images/wisehalo/41-zh.webp?v=1794780180" width="1800" height="1013" alt="" loading="lazy" decoding="async"><img class="l-en" src="../images/wisehalo/41.webp?v=1794780180" width="1800" height="1013" alt="" loading="lazy" decoding="async"></figure><figure class="fig zoom"><img class="l-zh" src="../images/wisehalo/32-zh.webp?v=1794736027" width="1800" height="1013" alt="" loading="lazy" decoding="async"><img class="l-en" src="../images/wisehalo/32.webp?v=1794634622" width="1800" height="1012" alt="" loading="lazy" decoding="async"></figure><figure class="fig zoom"><img class="l-zh" src="../images/wisehalo/33-zh.webp?v=1794736027" width="1800" height="1013" alt="" loading="lazy" decoding="async"><img class="l-en" src="../images/wisehalo/33.webp?v=1794634622" width="1800" height="1012" alt="" loading="lazy" decoding="async"></figure><figure class="fig zoom"><img class="l-zh" src="../images/wisehalo/34-zh.webp?v=1794736027" width="1800" height="1013" alt="" loading="lazy" decoding="async"><img class="l-en" src="../images/wisehalo/34.webp?v=1794732387" width="1800" height="1013" alt="" loading="lazy" decoding="async"></figure><figure class="fig zoom"><img class="l-zh" src="../images/wisehalo/35-zh.webp?v=1794736027" width="1800" height="1013" alt="" loading="lazy" decoding="async"><img class="l-en" src="../images/wisehalo/35.webp?v=1794634622" width="1800" height="1012" alt="" loading="lazy" decoding="async"></figure><figure class="fig zoom"><img class="l-zh" src="../images/wisehalo/36-zh.webp?v=1794736027" width="1800" height="1013" alt="" loading="lazy" decoding="async"><img class="l-en" src="../images/wisehalo/36.webp?v=1794634623" width="1800" height="1012" alt="" loading="lazy" decoding="async"></figure><figure class="fig zoom"><img class="l-zh" src="../images/wisehalo/37-zh.webp?v=1794736027" width="1800" height="1013" alt="" loading="lazy" decoding="async"><img class="l-en" src="../images/wisehalo/37.webp?v=1794733097" width="1800" height="1013" alt="" loading="lazy" decoding="async"></figure></div><div class="sec-head"><span>08</span><span><span class="l-zh" lang="zh-Hans-CN">现状与下一步</span><span class="l-en" lang="en">Status &amp; next steps</span></span><span class="sec-text"><span class="l-zh" lang="zh-Hans-CN">目前已实现：高保真 iOS App（SwiftUI）——提交文字或截图 → AI 分析 → 风险等级、解释与建议 → 提醒器灯光与震动；手机负责“提醒一次”，桌上的提醒器“一直提醒，直到您暂停或核实”。另有通话快速自查、读给我听、屏幕共享警告和 App 内字号。下一步：对 5 位 50 岁以上长辈做远程可用性测试（含“只有手机 / 手机 + 提醒器”对比）和专家评估。</span><span class="l-en" lang="en">Working today: a hi-fi iOS app (SwiftUI) — submit text or a screenshot → AI analysis → risk level, explanation and advice → light and vibration on the reminder. The phone alerts once; the desk reminder keeps alerting until you pause or verify. Also: a call self-check, read-aloud, a screen-sharing warning and in-app text size. Next: remote usability testing with five adults aged 50+ (including phone-only vs phone + reminder) and an expert evaluation.</span></span></div></div>
     <aside class="p-side"><div class="sticky"><p><span class="l-zh" lang="zh-Hans-CN">WISEHALO 是我的硕士毕业设计，一个结合 AI 风险分析与实体提醒设备的防诈骗体验项目。项目把可疑信息交给 AI 解释“为什么可疑”，并通过灯光与震动在关键时刻提醒用户先停下来，探索如何让隐藏在日常沟通中的诈骗系统变得可见、可理解、可应对。</span><span class="l-en" lang="en">WISEHALO is my MA thesis: an anti-scam experience combining AI risk analysis with a physical alert device. It asks AI to explain why a message is suspicious and uses light and vibration to prompt a pause at the critical moment — making the scam systems hidden in everyday communication visible, understandable and actionable.</span></p></div></aside>
   </div>
   <section class="meta p-foot"><div class="m-row"><span><span class="l-zh" lang="zh-Hans-CN">CREDITS</span><span class="l-en" lang="en">CREDITS</span></span><span class="span2"><span class="l-zh" lang="zh-Hans-CN">用户研究｜AI 功能设计｜交互设计｜界面设计｜硬件原型</span><span class="l-en" lang="en">User research | AI feature design | Interaction design | UI | Hardware prototyping</span></span></div><div class="m-row"><span><span class="l-zh" lang="zh-Hans-CN">项目性质</span><span class="l-en" lang="en">Format</span></span><span class="span2"><span class="l-zh" lang="zh-Hans-CN">硕士毕业设计 · 个人项目</span><span class="l-en" lang="en">MA thesis · Solo project</span></span></div><div class="m-row"><span><span class="l-zh" lang="zh-Hans-CN">团队</span><span class="l-en" lang="en">Team</span></span><span class="span2"><span class="l-zh" lang="zh-Hans-CN">个人项目</span><span class="l-en" lang="en">Solo</span></span></div><div class="m-row"><span><span class="l-zh" lang="zh-Hans-CN">课程</span><span class="l-en" lang="en">Course</span></span><span class="span2">ITGM 748 · SCAD</span></div><div class="m-row"><span><span class="l-zh" lang="zh-Hans-CN">周期</span><span class="l-en" lang="en">Timeline</span></span><span class="span2">2026.09 – 2026.11</span></div><div class="m-row"><span><span class="l-zh" lang="zh-Hans-CN">工具</span><span class="l-en" lang="en">Tools</span></span><span class="span2">Figma · ESP32-C3 · Wokwi · LLM API · Rhino</span></div><div class="m-row"><span><span class="l-zh" lang="zh-Hans-CN">状态</span><span class="l-en" lang="en">Status</span></span><span class="span2"><span class="l-zh" lang="zh-Hans-CN">进行中</span><span class="l-en" lang="en">In progress</span></span></div><div class="m-row pager"><span></span><span class="span2"><a href="ai-companion-toy.html">NEXT ›</a></span></div></section>
